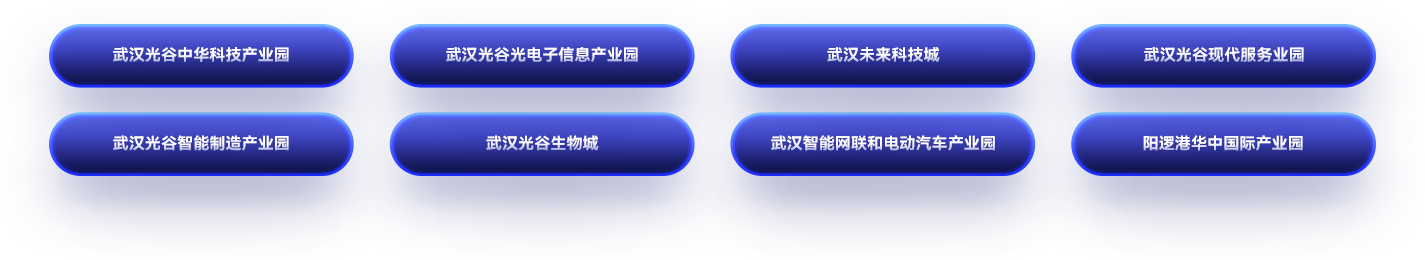
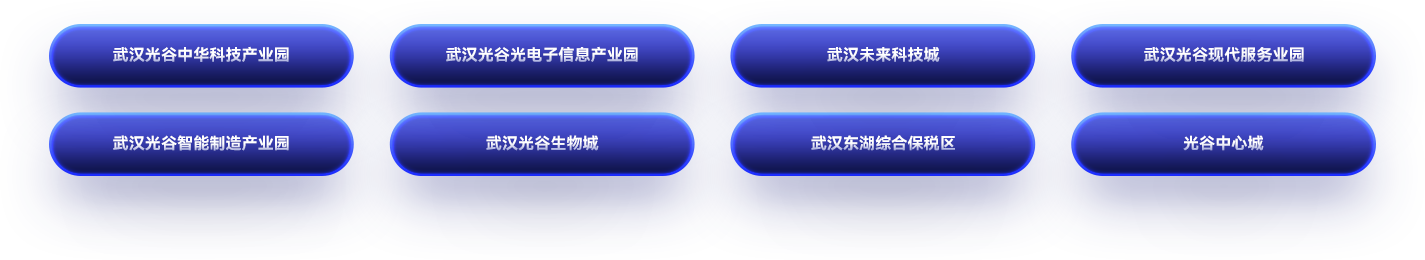
update: 新增图片

Changed region(s): [[0.5249, 0.5231, 0.7102, 0.5846], [0.8028, 0.5231, 0.9263, 0.5846]]

diff --git a/jinrongdaping/src/pages/third/index.js b/jinrongdaping/src/pages/third/index.js
@@ -1,21 +1,53 @@
 import { useEffect, useState, memo, useRef } from "react";
 import styles from "./index.module.scss";
 
-import subImage from "../../asset/third/二级产业大数据.jpg";
-import image from "../../asset/third/二级八大产业园总览.jpg";
+// import subImage from "../../asset/third/二级产业大数据.jpg";
+// import image from "../../asset/third/二级八大产业园总览.jpg";
 
 import videoUrl from './二级八大产业园总览_1.mp4';
-import 二级产业大数据武汉光谷生物城_1 from './二级产业大数据武汉光谷生物城_1.mp4';
-import 二级产业大数据 from './二级产业大数据-改.jpg';
+// import 二级产业大数据武汉光谷生物城_1 from './二级产业大数据武汉光谷生物城_1.mp4';
+// import 二级产业大数据 from './二级产业大数据-改.jpg';
+import 光谷中华科技产业园 from './光谷中华科技产业园.jpg';
+import 光电子信息产业园 from './光电子信息产业园.jpg';
+import 未来科技城 from './未来科技城.jpg';
+import 现代服务业园 from './现代服务业园.jpg';
+import 智能制造产业园 from './智能制造产业园.jpg';
+import 武汉光谷生物城 from './武汉光谷生物城.jpg';
+import 综保区 from './综保区.jpg';
+import 中心城 from './中心城.jpg';
 
 const list = {
-  武汉光谷中华科技产业园: {
+  光谷中华科技产业园: {
     type: 'image',
-    url: 二级产业大数据
+    url: 光谷中华科技产业园
+  },
+  光电子信息产业园: {
+    type: 'image',
+    url: 光电子信息产业园
+  },
+  未来科技城: {
+    type: 'image',
+    url: 未来科技城
+  },
+  现代服务业园: {
+    type: 'image',
+    url: 现代服务业园
+  },
+  智能制造产业园: {
+    type: 'image',
+    url: 智能制造产业园
   },
   武汉光谷生物城: {
-    type: 'video',
-    url: 二级产业大数据武汉光谷生物城_1
+    type: 'image',
+    url: 武汉光谷生物城
+  },
+  综保区: {
+    type: 'image',
+    url: 综保区
+  },
+  中心城: {
+    type: 'image',
+    url: 中心城
   }
 }
 

diff --git a/jinrongdaping/src/Control.js b/jinrongdaping/src/Control.js
@@ -5,7 +5,15 @@ import buttons3 from './asset/control/产业大数据二级.png';
 import './Control.css';
 
 const list1 = ['jinrongdashuju', 'chengshidashuju', 'chanyedashuju', 'xianshangpingtai'];
-const chengshiList = [null, null, null,
+const chengshiList = [null,
+  {
+    name: '光电子信息产业园',
+    type: 'image'
+  },
+  {
+    name: '二级城市大数据青年社区',
+    type: 'image'
+  },
   {
     name: '科创金融总部一期',
     type: 'video'
@@ -18,18 +26,49 @@ const chengshiList = [null, null, null,
     name: '武汉新城体育中心',
     type: 'image'
   },
-  null, null];
-const chanyeList = [
   {
-    name: '武汉光谷中华科技产业园',
+    name: '中央公园',
     type: 'image'
   },
-  null, null, null, null,
+  {
+    name: '未来公园',
+    type: 'image'
+  }
+];
+
+const chanyeList = [
+  {
+    name: '光谷中华科技产业园',
+    type: 'image'
+  },
+  {
+    name: '光电子信息产业园',
+    type: 'image'
+  },
+  {
+    name: '未来科技城',
+    type: 'image'
+  },
+  {
+    name: '现代服务业园',
+    type: 'image'
+  },
+  {
+    name: '智能制造产业园',
+    type: 'image'
+  },
   {
     name: '武汉光谷生物城',
-    type: 'video'
+    type: 'image'
   },
-  null, null
+  {
+    name: '综保区',
+    type: 'image'
+  },
+  {
+    name: '中心城',
+    type: 'image'
+  }
 ];
 
 function App() {
@@ -39,7 +78,8 @@ function App() {
   const [subSelect2, setSubSelect2] = useState(false);
 
   useEffect(() => {
-    webSocketRef.current = new WebSocket('ws://192.168.10.18:8080');
+    // webSocketRef.current = new WebSocket('ws://192.168.10.18:8080');
+    webSocketRef.current = new WebSocket('ws://192.168.2.172:8080');
 
     webSocketRef.current.onopen = () => {
       console.log('连接webSocket成功！')

diff --git a/jinrongdaping/src/pages/second/index.js b/jinrongdaping/src/pages/second/index.js
@@ -8,6 +8,10 @@ import videoUrl from './02武汉新城总体规划概览_1.mp4';
 import 武汉新城金融总部一期_1 from './武汉新城金融总部一期_1.mp4';
 import 二级城市大数据光谷筑芯科技产业园 from './二级城市大数据光谷筑芯科技产业园.jpg';
 import 二级城市大数据武汉新城体育中心 from './二级城市大数据武汉新城体育中心.jpg';
+import 光电子信息产业园 from './光电子信息产业园.jpg';
+import 二级城市大数据青年社区 from './二级城市大数据青年社区.jpg';
+import 中央公园 from './中央公园.jpg';
+import 未来公园 from './未来公园.jpg';
 
 const list = {
   科创金融总部一期: {
@@ -21,6 +25,22 @@ const list = {
   武汉新城体育中心: {
     type: 'image',
     url: 二级城市大数据武汉新城体育中心
+  },
+  光电子信息产业园: {
+    type: 'image',
+    url: 光电子信息产业园
+  },
+  二级城市大数据青年社区: {
+    type: 'image',
+    url: 二级城市大数据青年社区
+  },
+  中央公园: {
+    type: 'image',
+    url: 中央公园
+  },
+  未来公园: {
+    type: 'image',
+    url: 未来公园
   }
 }
 
